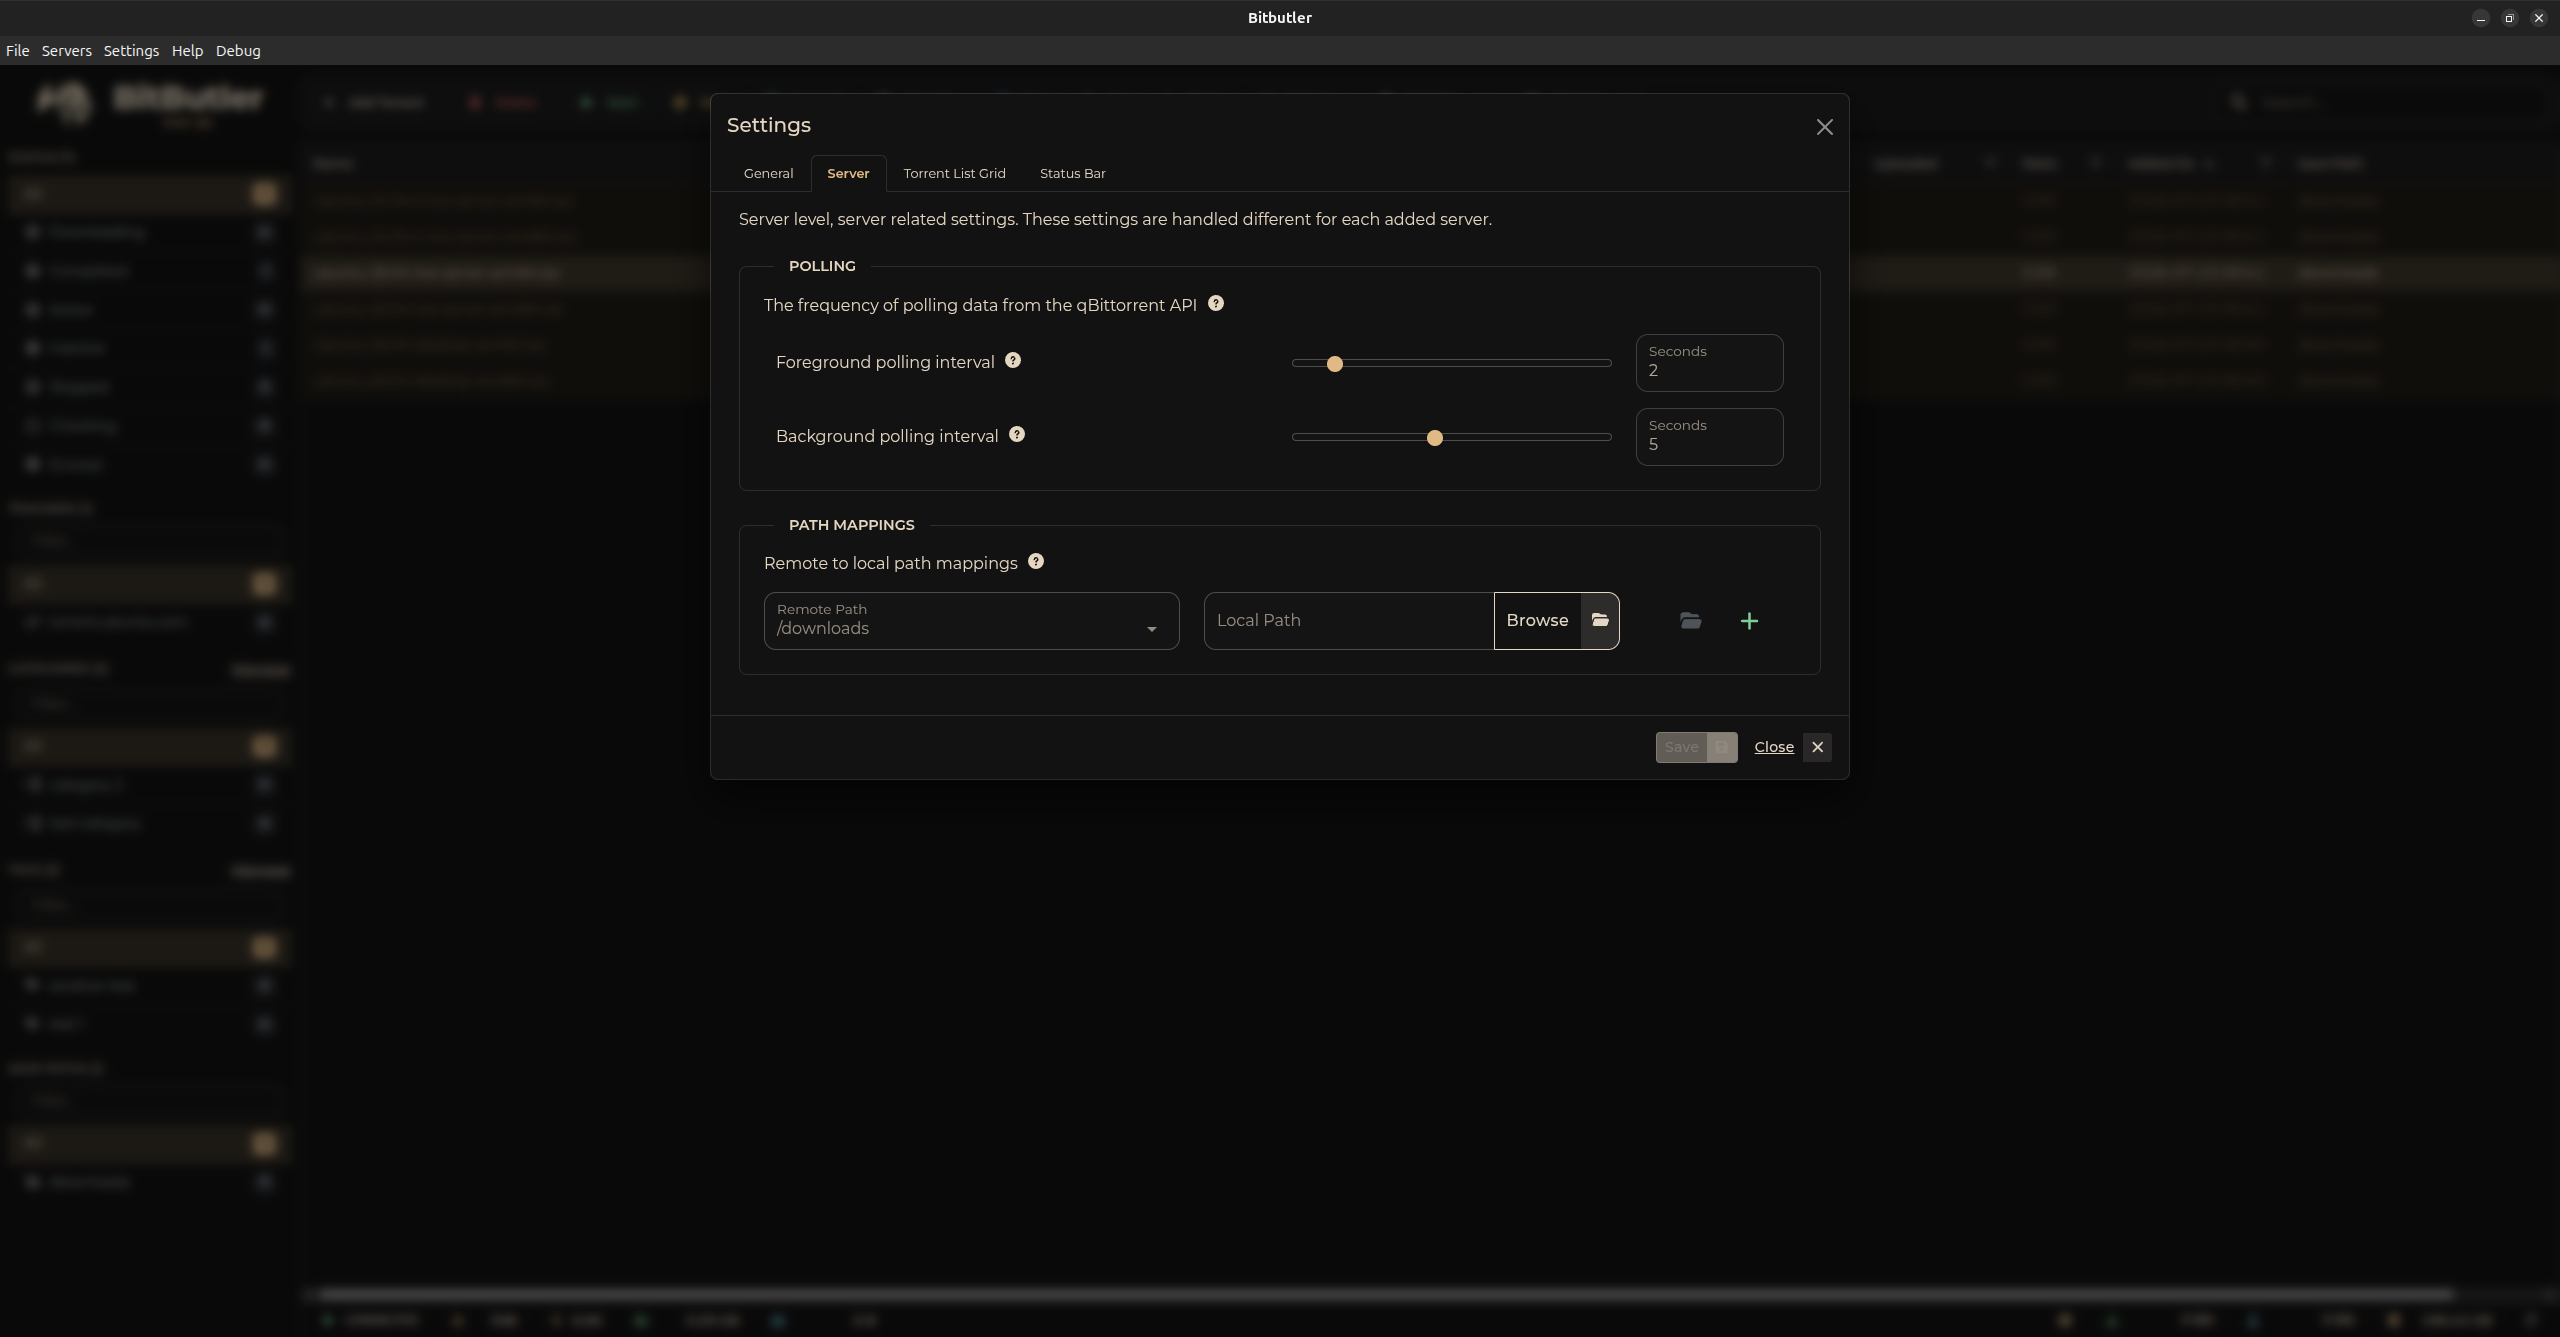
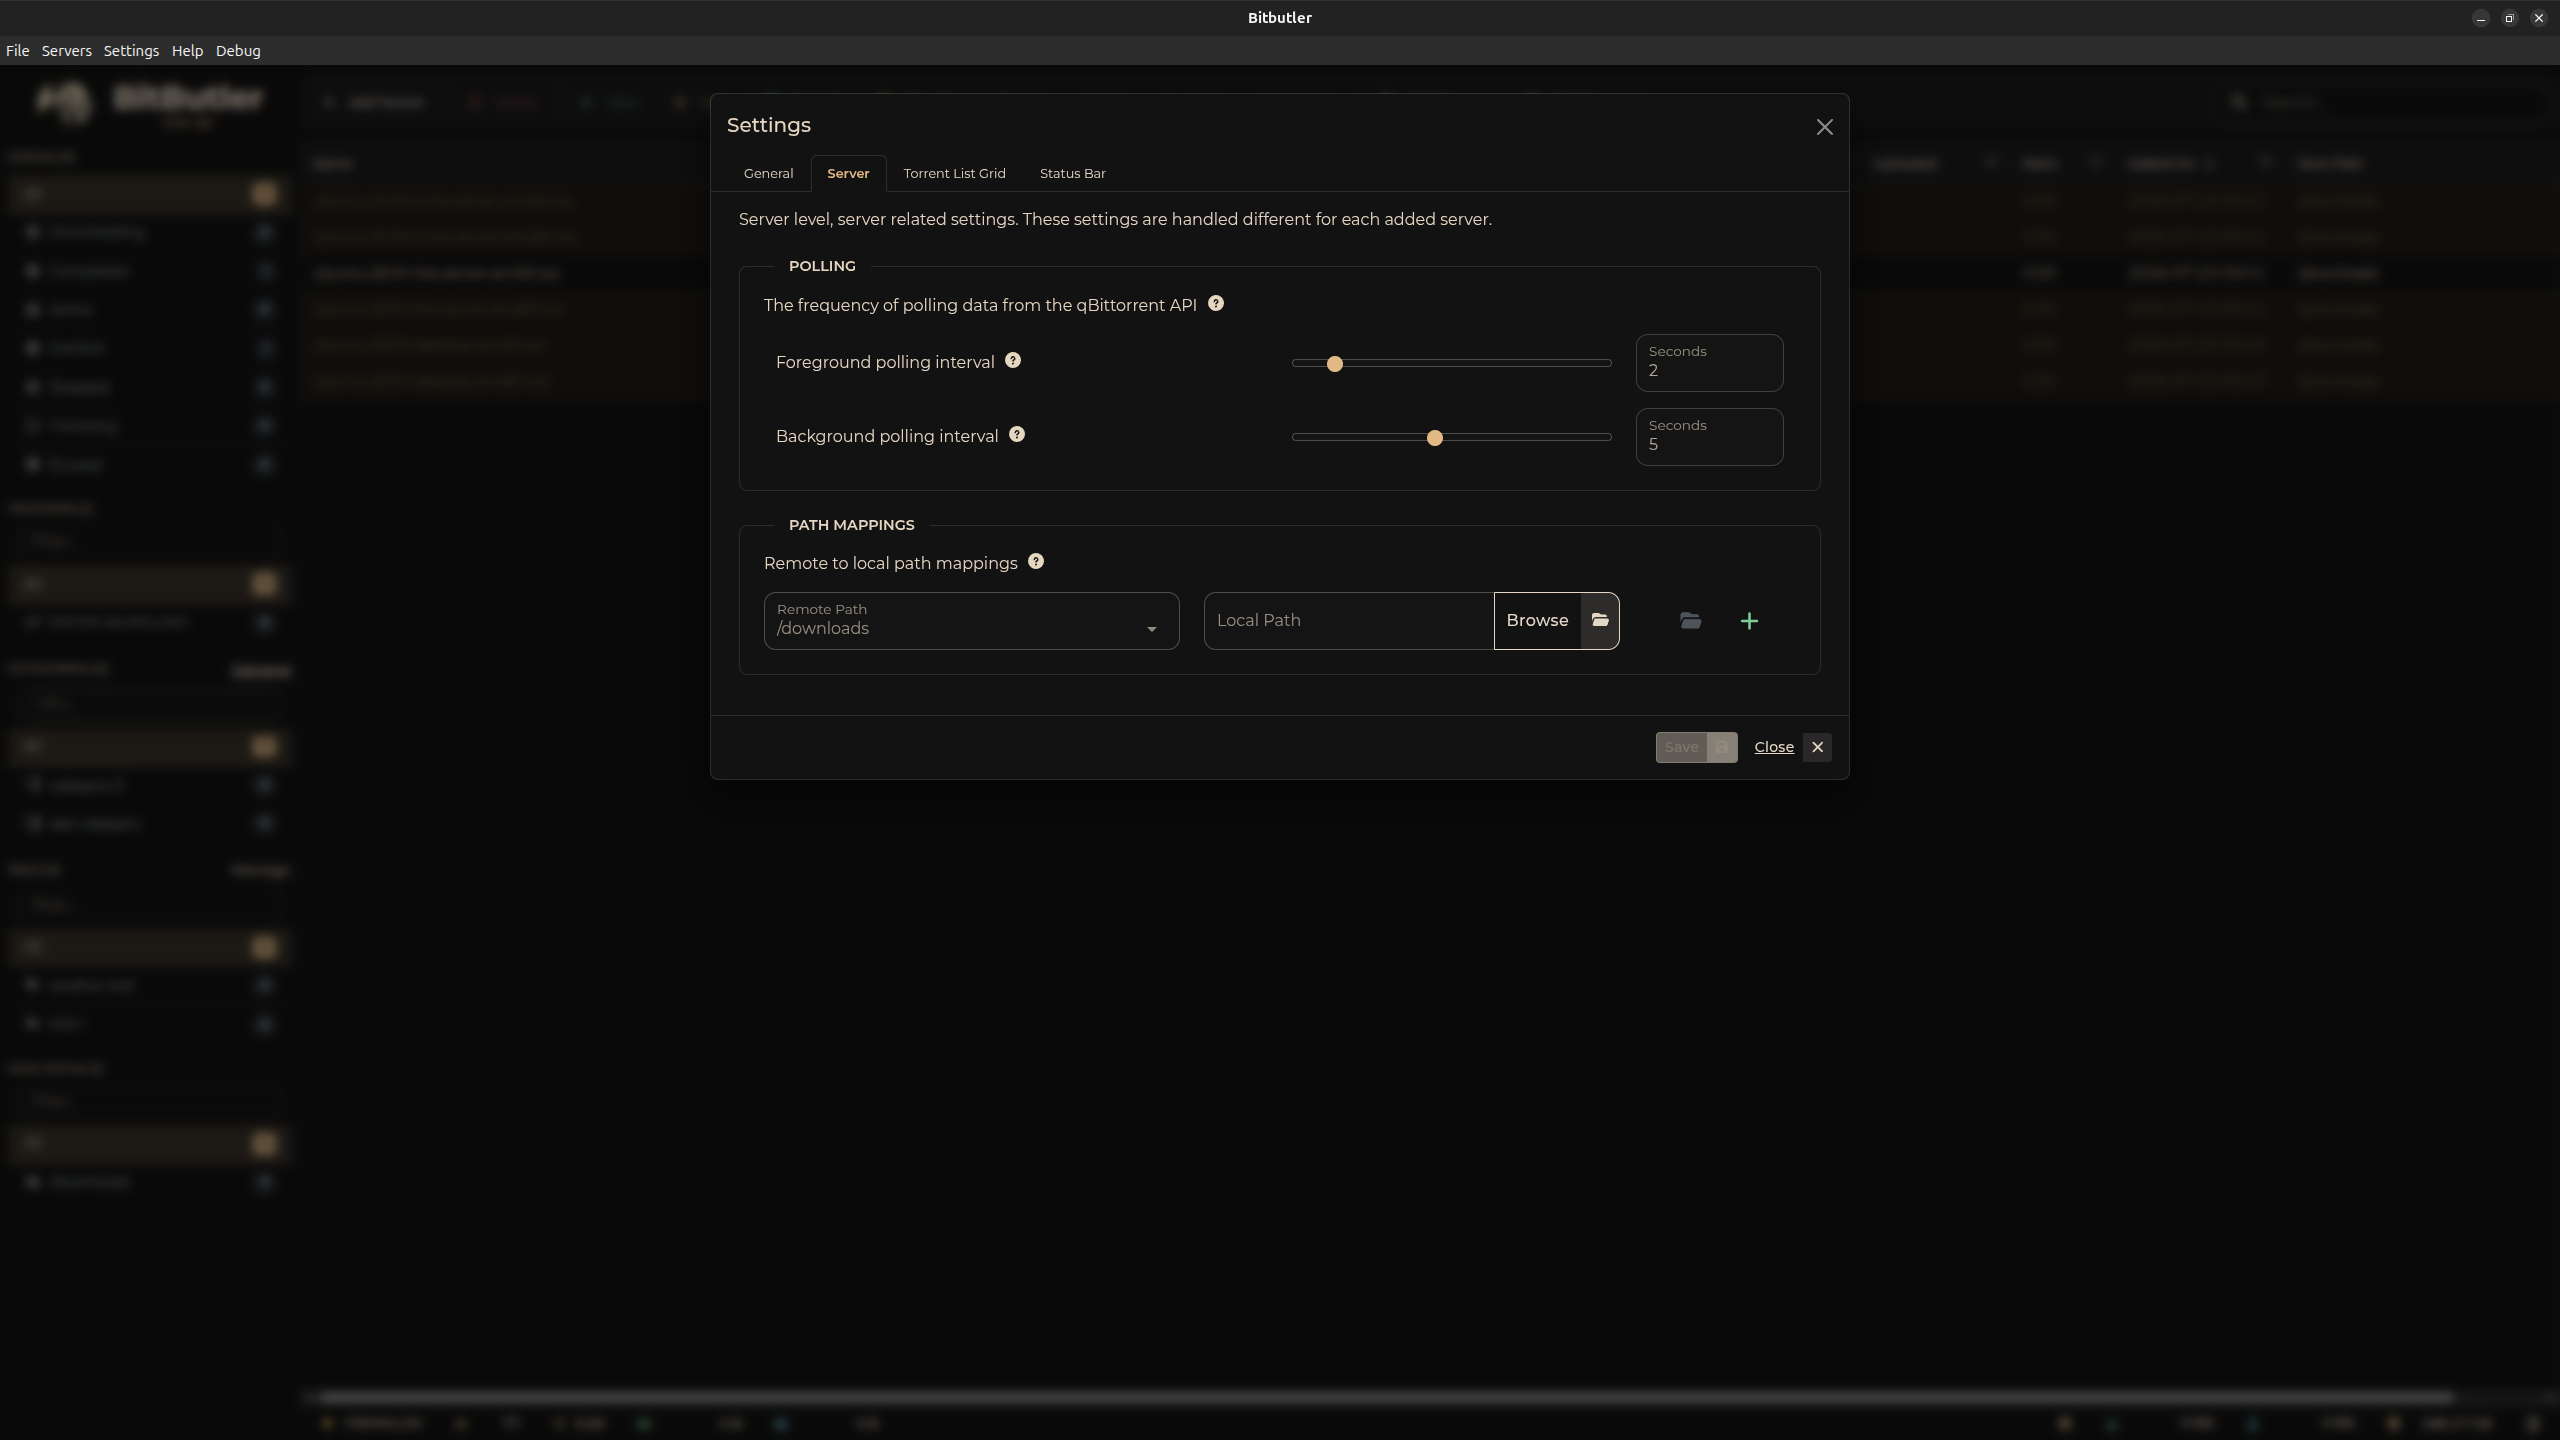
#259: refresh README/docs screenshots and add user guide section
Add a User Guide section with screenshot to the README, and refresh
the settings and readme screenshots to reflect the updated UI.

diff --git a/README.md b/README.md
@@ -41,6 +41,7 @@ Using with newer versions of the API may be possible, but can be buggy as there 
 - [Localization](#localization)
   - [Help the Butler Learn!](#help-the-butler-learn)
 - [Quick Start](#quick-start)
+- [User Guide](#user-guide)
 - [For the Developers](#for-the-developers)
   - [Prerequisites](#prerequisites)
   - [Setup](#setup)
@@ -96,7 +97,11 @@ Check our [Contributing Guide](.github/CONTRIBUTING.md) for more details on how 
 
 Note: On Windows, you may see a "Windows protected your PC" warning. This is because the app is not signed with an expensive developer certificate. You can click "More info" and then "Run anyway" to start the Butler.
 
-For a full walkthrough of the app, check out the [User Guide](https://enisz.github.io/bitbutler/).
+## User Guide
+
+![User Guide](readme/user-guide.png)
+
+Want the full walkthrough? The [User Guide](https://enisz.github.io/bitbutler/) covers installation, connecting servers, managing torrents, settings, and troubleshooting - available in English and Hungarian.
 
 ## For the Developers
 
